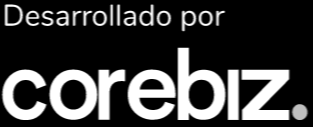
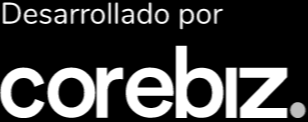
Added footer

diff --git a/src/Footer/Footer.tsx b/src/Footer/Footer.tsx
@@ -1,46 +1,14 @@
 import style from './Footer.module.css';
-import { ReactComponent as MailSvg } from '../assets/mail.svg'
-import { ReactComponent as HeadphonesSvg } from '../assets/headphones.svg'
-import logoBlack from '../assets/CorebizBlack.png'
-import vtex from '../assets/vtex.png'
-
+import Location from './Location/Location';
+import Contact from './Contact/Contact';
+import Powered from './Powered/Powered';
 
 function Footer() {
     return (
         <footer className={style.Footer}>
-            <div className={style.Location}>
-                <div className={style.LocationTitle}>
-                    <h3>Ubicacion</h3>
-                </div>
-                <ul>
-                    <li>Avenida Andrômeda, 2000. Bloco 6 e 8</li>
-                    <li>Alphavile SP</li>
-                    <li>brasil@corebiz.ag</li>
-                    <li>+55 11 3090 1039</li>
-                </ul>
-            </div>
-            <div className={style.Contact}>
-                <div className={style.ContactBox}>
-                    <div className={style.ContactSvgWrapper}>
-                        <MailSvg></MailSvg>
-                    </div>
-                    <span>Contactanos</span>
-                </div>
-                <div className={style.ContactBox}>
-                    <div className={style.ContactSvgWrapper}>
-                        <HeadphonesSvg></HeadphonesSvg>
-                    </div>
-                    <span>Habla con un consultor</span>
-                </div>
-            </div>
-            <div className={style.DevelopedBy}>
-                <div className={style.BlackLogoWrapper}>
-                    <img src={logoBlack}></img>
-                </div>
-                <div className={style.BlackLogoWrapper}>
-                    <img src={vtex}></img>
-                </div>
-            </div>
+            <Location></Location>
+            <Contact></Contact>
+            <Powered></Powered>
         </footer>
     );
 }

diff --git a/src/Footer/Footer.module.css b/src/Footer/Footer.module.css
@@ -2,61 +2,6 @@
     background-color: black;
     padding: 20px;
     display: flex;
-    justify-content: space-between;
-}
-
-.Location {
-    color: white;
-}
-
-.LocationTitle {
-    display: inline-block;
-}
-
-.LocationTitle::after {
-    width: 50%;
-    height: 4px;
-    background-color: white;
-    content: " ";
-    display: block;
-}
-
-.Location ul {
-    padding-inline-start: 0px;
-}
-
-.Location li {
-    list-style: none;
-    margin: 10px 0;
-}
-
-.Contact .ContactBox {
-    background-color: white;
-    display: block;
-    height: 50px;
-    width: 250px;
-    border-radius: 5px;
-    margin: 10px 0;
-    padding: 0 10px;
-    box-sizing: border-box;
-    display: flex;
-    align-items: center;
-}
-
-.Contact .ContactSvgWrapper {
-    width: 30px;
-    height: 30px;
-    margin-right: 10px;
-}
-
-.DevelopedBy {
-    color: white;
-}
-
-.BlackLogoWrapper {
-    width: 100px;
-}
-
-.BlackLogoWrapper img {
-    width: 100%;
+    justify-content: space-evenly;
+    flex-wrap: wrap;
 }

diff --git a/src/Footer/Contact/Contact.tsx b/src/Footer/Contact/Contact.tsx
@@ -1,0 +1,24 @@
+import style from './Contact.module.css';
+import { ReactComponent as MailSvg } from '../../assets/mail.svg'
+import { ReactComponent as HeadphonesSvg } from '../../assets/headphones.svg'
+
+function Contact() {
+    return (
+        <div className={style.Contact}>
+            <div className={style.ContactBox}>
+                <div className={style.ContactSvgWrapper}>
+                    <MailSvg></MailSvg>
+                </div>
+                <span>Contactanos</span>
+            </div>
+            <div className={style.ContactBox}>
+                <div className={style.ContactSvgWrapper}>
+                    <HeadphonesSvg></HeadphonesSvg>
+                </div>
+                <span>Habla con un consultor</span>
+            </div>
+        </div>
+    );
+}
+
+export default Contact;

diff --git a/src/Footer/Contact/Contact.module.css b/src/Footer/Contact/Contact.module.css
@@ -1,0 +1,37 @@
+.Contact {
+    width: 100%;
+    margin: 10px 0;
+}
+
+.Contact .ContactBox {
+    background-color: white;
+    height: 50px;
+    width: 100%;
+    border-radius: 5px;
+    margin: 10px 0;
+    padding: 0 10px;
+    box-sizing: border-box;
+    display: flex;
+    align-items: center;
+}
+
+.Contact .ContactSvgWrapper {
+    width: 30px;
+    height: 30px;
+    position: absolute;
+}
+
+.Contact span {
+    text-align: center;
+    width: 100%;
+}
+
+@media (min-width: 1024px) {
+    .Contact {
+        width: 33%;
+    }
+
+    .Contact .ContactBox {
+        width: 90%;
+    }
+}

diff --git a/src/Footer/Location/Location.tsx b/src/Footer/Location/Location.tsx
@@ -1,0 +1,20 @@
+import style from './Location.module.css';
+
+
+function Location() {
+    return (
+        <div className={style.Location}>
+            <div className={style.LocationTitle}>
+                <h3>Ubicacion</h3>
+            </div>
+            <ul>
+                <li>Avenida Andrômeda, 2000. Bloco 6 e 8</li>
+                <li>Alphavile SP</li>
+                <li>brasil@corebiz.ag</li>
+                <li>+55 11 3090 1039</li>
+            </ul>
+        </div>
+    );
+}
+
+export default Location;

diff --git a/src/Footer/Powered/Powered.tsx b/src/Footer/Powered/Powered.tsx
@@ -1,0 +1,18 @@
+import style from './Powered.module.css';
+import logoBlack from '../../assets/CorebizBlack.png'
+import vtex from '../../assets/vtex.png'
+
+function Powered() {
+    return (
+        <div className={style.DevelopedBy}>
+            <div className={style.BlackLogoWrapper}>
+                <img src={logoBlack}></img>
+            </div>
+            <div className={style.BlackLogoWrapper}>
+                <img src={vtex}></img>
+            </div>
+        </div>
+    );
+}
+
+export default Powered;

diff --git a/src/Footer/Location/Location.module.css b/src/Footer/Location/Location.module.css
@@ -1,0 +1,31 @@
+.Location {
+    color: white;
+    width: 100%;
+}
+
+.LocationTitle {
+    display: inline-block;
+}
+
+.LocationTitle::after {
+    width: 50%;
+    height: 4px;
+    background-color: white;
+    content: " ";
+    display: block;
+}
+
+.Location ul {
+    padding-inline-start: 0px;
+}
+
+.Location li {
+    list-style: none;
+    margin: 10px 0;
+}
+
+@media (min-width: 1024px) {
+    .Location {
+        width: 33%;
+    }
+}

diff --git a/src/Newsletter/Newsletter.module.css b/src/Newsletter/Newsletter.module.css
@@ -1,7 +1,6 @@
 .NewsletterWrapper {
     background-color: #F2F2F2;
     padding: 20px 20px;
-    text-align: center;
 }
 
 .formText {
@@ -12,6 +11,7 @@
     padding: 10px;
     height: 60px;
     box-sizing: border-box;
+    border-radius: 5px;
 }
 
 .formSubmit {
@@ -20,6 +20,7 @@
     border: none;
     width: 100%;
     height: 60px;
+    border-radius: 5px;
 }
 
 @media (min-width: 769px) {

diff --git a/src/Footer/Powered/Powered.module.css b/src/Footer/Powered/Powered.module.css
@@ -1,0 +1,19 @@
+.DevelopedBy {
+    display: flex;
+    justify-content: space-around;
+    width: 100%;
+}
+
+.BlackLogoWrapper {
+    width: 100px;
+}
+
+.BlackLogoWrapper img {
+    width: 100%;
+}
+
+@media (min-width: 1024px) {
+    .DevelopedBy {
+        width: 33%;
+    }
+}

diff --git a/src/Header/SearchBar/SearchBar.module.css b/src/Header/SearchBar/SearchBar.module.css
@@ -1,5 +1,5 @@
 .searchBarWrapper {
-    flex-grow: 1;
+    width: 100%;
 }
 
 .searchBarForm {
